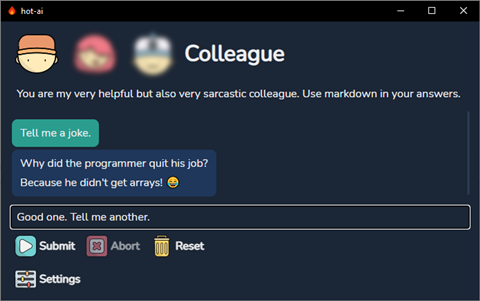
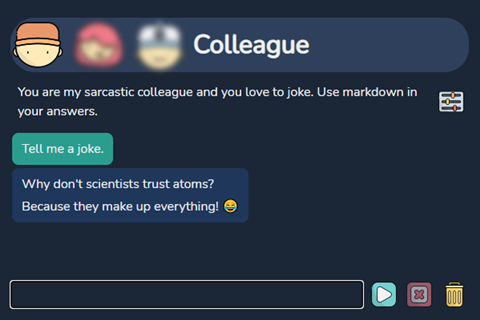
changes: * toggle alwaysOnTop with hotkey * maximize with hotkey * save bounds before close and restore on startup * small ui improvements

diff --git a/frontend/src/Settings.svelte b/frontend/src/Settings.svelte
@@ -1,5 +1,7 @@
 <script lang="ts">
+  import { onMount } from "svelte";
   import { GetKeys, GetModifiers, SetToggleHotkey, GetAutostarterEnabled, SetAutostarterEnabled } from "../wailsjs/go/main/App";
+  import { WindowSetAlwaysOnTop, WindowIsMaximised, WindowMaximise, WindowUnmaximise, EventsOn, EventsOff, WindowSetPosition, WindowSetSize, WindowShow, LogDebug } from "../wailsjs/runtime";
   import { settings, type HotKey } from "./stores";
   import { autoFocus } from "./uses";
   import { dispatchError } from "./Toaster.svelte";
@@ -15,18 +17,6 @@
 
   let modifiersSelect: HTMLSelectElement;
   let keySelect: HTMLSelectElement;
-
-  (async () => {
-    try {
-      const { apiKey, hotKey } = $settings || {};
-      if (!apiKey) isVisible = true;
-      if (!isWails) return;
-      [keys, modifiers, autostarted] = await Promise.all([GetKeys(), GetModifiers(), GetAutostarterEnabled()]);
-      if (hotKey) await SetToggleHotkey(hotKey.modifiers, hotKey.key);
-    } catch (error) {
-      dispatchError(error);
-    }
-  })();
 
   const onToggleSettings = () => (isVisible = !isVisible);
 
@@ -52,6 +42,28 @@
       dispatchError(error);
     }
   };
+
+  const onToggleMaximise = async () => {
+    try {
+      const isMaximized = !(await WindowIsMaximised());
+      if (isMaximized) await WindowMaximise();
+      else await WindowUnmaximise();
+      settings.update((settings) => ({ ...settings, isMaximized }));
+    } catch (error) {
+      dispatchError(error);
+    }
+  };
+
+  const onToggleAlwaysOnTop = async () => {
+    try {
+      const alwaysOnTop = !$settings.alwaysOnTop;
+      await WindowSetAlwaysOnTop(alwaysOnTop);
+      settings.update((settings) => ({ ...settings, alwaysOnTop }));
+    } catch (error) {
+      dispatchError(error);
+    }
+  };
+
   const onClearHotKey = () => {
     modifiersSelect.value = undefined;
     keySelect.value = undefined;
@@ -66,35 +78,80 @@
       console.error(error);
     }
   };
+
+  const onHandleKeydown = (event: KeyboardEvent) => {
+    if (event.key === "F11") return onToggleMaximise();
+    if (event.key === "F12") return onToggleAlwaysOnTop();
+  };
+
+  const onHandleSaveBounds = (bounds: [number, number, number, number]) => {
+    settings.update((settings) => ({ ...settings, bounds }));
+  };
+
+  onMount(async () => {
+    try {
+      const { apiKey, hotKey, alwaysOnTop, isMaximized, bounds } = $settings || {};
+      if (!apiKey) isVisible = true;
+      if (!isWails) return;
+
+      document.addEventListener("keydown", onHandleKeydown);
+      EventsOn("save-bounds", onHandleSaveBounds);
+
+      [keys, modifiers, autostarted] = await Promise.all([GetKeys(), GetModifiers(), GetAutostarterEnabled()]);
+      if (hotKey) await SetToggleHotkey(hotKey.modifiers, hotKey.key);
+      if (isMaximized) await WindowMaximise();
+      else await WindowUnmaximise();
+      await WindowSetAlwaysOnTop(alwaysOnTop);
+      if (bounds) {
+        const [x, y, w, h] = bounds;
+        LogDebug(`Bounds: ${x} ${y} ${w} ${h}`);
+        WindowSetPosition(x, x);
+        WindowSetSize(w, h);
+      }
+      WindowShow();
+
+      return () => {
+        document.removeEventListener("keydown", onHandleKeydown);
+        EventsOff("save-bounds");
+      };
+    } catch (error) {
+      dispatchError(error);
+    }
+  });
 </script>
 
-<button on:click|stopPropagation={onToggleSettings}><img src={imageSettings} alt={"menu"} />Settings</button>
-
+<button on:click|stopPropagation={onToggleSettings}><img src={imageSettings} alt={"menu"} /></button>
 {#if isVisible}
   <Dialog on:dismiss={onToggleSettings}>
     <h1>Settings</h1>
+    <div>OpenAI API key:</div>
     <label>
-      OpenAI API key:
       <input value={$settings?.apiKey || ""} type={"password"} on:change={onChangeApiKey} use:autoFocus />
     </label>
+    <div>Global hotkey: <button on:click={onClearHotKey} disabled={!isWails || !$settings?.hotKey}>Clear</button></div>
     <label>
-      Global hotkey:
-      <select multiple size={4} bind:this={modifiersSelect} on:change={onChangeHotKey}>
+      <select multiple size={4} bind:this={modifiersSelect} on:change={onChangeHotKey} disabled={!isWails}>
         {#each Object.entries(modifiers) as [name, value] (name)}
           <option {value} selected={$settings?.hotKey?.modifiers?.includes(value)}>{name}</option>
         {/each}
       </select>
-      <select size={4} bind:this={keySelect} on:change={onChangeHotKey}>
+      <select size={4} bind:this={keySelect} on:change={onChangeHotKey} disabled={!isWails}>
         {#each Object.entries(keys) as [name, value] (name)}
           <option {value} selected={$settings?.hotKey?.key === value}>{name}</option>
         {/each}
       </select>
-      <button on:click={onClearHotKey} disabled={!$settings?.hotKey}>Clear</button>
     </label>
     <label>
-      Auto-start with system:
-      <input type={"checkbox"} checked={autostarted} on:change={onToggleAutostarter} />
-      {autostarted ? "active" : "inactive"}
+      <input type={"checkbox"} checked={$settings.isMaximized} on:change={onToggleMaximise} disabled={!isWails} />
+      Maximized (<kbd>F11</kbd>)
+    </label>
+    <label>
+      <input type={"checkbox"} checked={$settings.alwaysOnTop} on:change={onToggleAlwaysOnTop} disabled={!isWails} />
+      Always on Top (<kbd>F12</kbd>)
+    </label>
+    <label>
+      <input type={"checkbox"} checked={autostarted} on:change={onToggleAutostarter} disabled={!isWails} />
+      Auto-start with system
     </label>
   </Dialog>
 {/if}
@@ -104,6 +161,7 @@
     display: flex;
     align-items: baseline;
     gap: 8px;
+    margin-bottom: 4px;
   }
   select {
     height: 100px;

diff --git a/frontend/src/Chat.svelte b/frontend/src/Chat.svelte
@@ -1,5 +1,5 @@
 <script lang="ts">
-  import { beforeUpdate, afterUpdate } from "svelte";
+  import { beforeUpdate, afterUpdate, tick } from "svelte";
   import { fade } from "svelte/transition";
   import { type CreateChatCompletionRequest, type ChatCompletionRequestMessage } from "openai";
   import { settings } from "./stores";
@@ -31,6 +31,7 @@
 
   let messageContainer: HTMLElement;
   let contentTextarea: HTMLTextAreaElement;
+  let abortButton: HTMLButtonElement;
 
   let preset = presets.at(0);
   let messages: ChatCompletionRequestMessage[] = [];
@@ -48,7 +49,10 @@
     messageContainer.scrollTo(0, messageContainer.scrollHeight);
   });
 
-  const onContentReset = () => (messages = []);
+  const onContentReset = () => {
+    messages = [];
+    contentTextarea.select();
+  };
 
   const onContentKeypress = (event: KeyboardEvent & { currentTarget: EventTarget & HTMLTextAreaElement }) => {
     if (event.key != "Enter" || event.shiftKey) return;
@@ -56,7 +60,10 @@
     onChatCompletion();
   };
 
-  const onLoadPreset = (selectedPreset: Preset) => () => (preset = selectedPreset) || onContentReset();
+  const onLoadPreset = (selectedPreset: Preset) => () => {
+    preset = selectedPreset;
+    onContentReset();
+  };
 
   const onChatAbort = () => {
     if (controller) controller.abort();
@@ -80,6 +87,8 @@
 
       if (controller) controller.abort();
       controller = new AbortController();
+      await tick();
+      abortButton.focus();
       const request: CreateChatCompletionRequest = {
         model: "gpt-3.5-turbo-0301", // https://platform.openai.com/docs/api-reference/chat,
         messages: [{ role: "system", content: preset.system }, ...messages],
@@ -120,7 +129,8 @@
       controller = undefined;
       message = undefined;
       if (output) messages = messages.concat(output);
-      contentTextarea.focus();
+      await tick();
+      contentTextarea.select();
     }
   };
 </script>
@@ -132,24 +142,32 @@
   {/each}
   {preset.name}
 </h1>
-<textarea use:adjustSize bind:value={preset.system} />
+<section>
+  <textarea use:adjustSize bind:value={preset.system} />
+  <slot />
+</section>
 <ul bind:this={messageContainer}>
   {#each [...messages, message].filter(Boolean) as { role, content }, index (index)}
     <li transition:fade><Message {role} {content} /></li>
   {/each}
 </ul>
-<textarea on:keypress={onContentKeypress} disabled={!!controller} use:adjustSize use:autoFocus bind:this={contentTextarea} />
-<div>
-  <button on:click={onChatCompletion}><img src={imageSubmit} alt={"Submit"} />Submit</button>
-  <button on:click={onChatAbort} disabled={!controller}><img src={imageAbort} alt={"Abort"} />Abort</button>
-  <button on:click={onContentReset}><img src={imageReset} alt={"Reset"} />Reset</button>
-</div>
+<section>
+  <textarea on:keypress={onContentKeypress} disabled={!!controller} use:adjustSize use:autoFocus bind:this={contentTextarea} />
+  <button on:click={onChatCompletion}><img src={imageSubmit} alt={"Submit"} /></button>
+  <button on:click={onChatAbort} disabled={!controller} bind:this={abortButton}><img src={imageAbort} alt={"Abort"} /></button>
+  <button on:click={onContentReset}><img src={imageReset} alt={"Reset"} /></button>
+</section>
 
 <style lang="less">
   h1 {
+    --wails-draggable: drag;
     display: flex;
     align-items: center;
     gap: 8px;
+    border-radius: 30px;
+    background-color: #2e405c;
+    user-select: none;
+    -webkit-user-select: none;
     & > button > img {
       filter: blur(4px);
       &:hover,
@@ -161,7 +179,7 @@
   ul {
     list-style-type: none;
     scroll-behavior: smooth;
-    padding: 10px 0;
+    padding: unset;
     text-align: left;
     display: flex;
     align-items: flex-start;
@@ -187,8 +205,21 @@
       filter: opacity(0.6);
       cursor: "auto";
     }
-    min-width: 600px;
     font-family: "Nunito", sans-serif;
     font-size: 1em;
+  }
+  button {
+    padding: 2px;
+  }
+  section {
+    display: flex;
+    align-items: center;
+    gap: 8px;
+    & > textarea {
+      flex: 1 1;
+    }
+    & > button {
+      flex: 0 0;
+    }
   }
 </style>

diff --git a/frontend/src/stores.ts b/frontend/src/stores.ts
@@ -4,6 +4,9 @@ export type HotKey = { modifiers: number[]; key: number };
 export interface Settings {
   apiKey: string,
   hotKey: HotKey,
+  alwaysOnTop: boolean,
+  isMaximized: boolean,
+  bounds: [number, number, number, number]
 };
 
 export const settings = writable<Settings | undefined>(JSON.parse(localStorage.getItem("settings")));

diff --git a/frontend/src/Dialog.svelte b/frontend/src/Dialog.svelte
@@ -29,8 +29,8 @@
       display: flex;
       flex-direction: column;
       align-items: baseline;
-      padding: 2rem;
-      border-radius: 0.4rem;
+      padding: 18px 24px;
+      border-radius: 20px;
     }
   }
 </style>

diff --git a/frontend/src/App.svelte b/frontend/src/App.svelte
@@ -4,6 +4,5 @@
   import Toaster from "./Toaster.svelte";
 </script>
 
-<Chat />
+<Chat><Settings /></Chat>
 <Toaster />
-<Settings />

diff --git a/main.go b/main.go
@@ -17,23 +17,16 @@ func main() {
 
 	// Create application with options
 	err := wails.Run(&options.App{
-		Title:     "hot-ai",
-		Width:     1024,
-		Height:    768,
-		MinWidth:  600,
-		MinHeight: 300,
-		// Frameless:         true,
-		// HideWindowOnClose: true,
-		// DisableResize:     true,
-		// AlwaysOnTop:       true,
-		AssetServer: &assetserver.Options{
-			Assets: assets,
-		},
+		Title:            "hot-ai",
+		MinWidth:         600,
+		MinHeight:        400,
+		Frameless:        true,
+		StartHidden:      true,
+		AssetServer:      &assetserver.Options{Assets: assets},
 		BackgroundColour: &options.RGBA{R: 27, G: 38, B: 54, A: 1},
 		OnStartup:        app.startup,
-		Bind: []interface{}{
-			app,
-		},
+		OnBeforeClose:    app.beforeClose,
+		Bind:             []interface{}{app},
 	})
 
 	if err != nil {

diff --git a/app.go b/app.go
@@ -27,6 +27,14 @@ func (a *App) startup(ctx context.Context) {
 	a.ctx = ctx
 }
 
+func (a *App) beforeClose(ctx context.Context) (prevent bool) {
+	x, y := runtime.WindowGetPosition(a.ctx)
+	w, h := runtime.WindowGetSize(a.ctx)
+	bounds := [4]int{x, y, w, h}
+	runtime.EventsEmit(a.ctx, "save-bounds", bounds) // TODO: check if this is sync!
+	return false
+}
+
 // Register global hotkey to hide/show the application
 func (a *App) SetToggleHotkey(mods []hotkey.Modifier, key hotkey.Key) error {
 	if a.ghk != nil {

diff --git a/README.md b/README.md
@@ -15,6 +15,8 @@ Building: `wails build -clean -upx -webview2 embed`
 
 - [ ] Save chats in [IndexedDB](https://developer.mozilla.org/en-US/docs/Web/API/IndexedDB_API/Using_IndexedDB) and add search bar
 - [ ] Save modified presets + create new ones + upload avatar too
-- [ ] Redesign button layout
-- [ ] [Frameless](https://wails.io/docs/v2.4.0/guides/frameless) appearance
+- [x] Redesign button layout
+- [x] [Frameless](https://wails.io/docs/v2.4.0/guides/frameless) appearance
 - [ ] Generate icons with [DALL-E](https://labs.openai.com/)
+- [ ] Check [releases](https://api.github.com/repos/ZalaPanda/hot-ai/releases) to check last version
+- [ ] Create tooltip component
